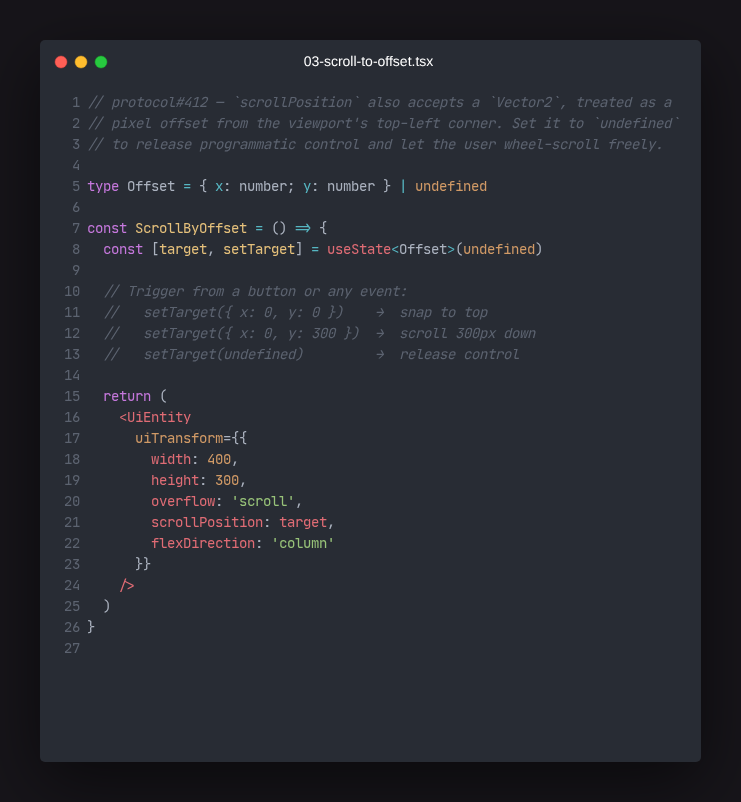
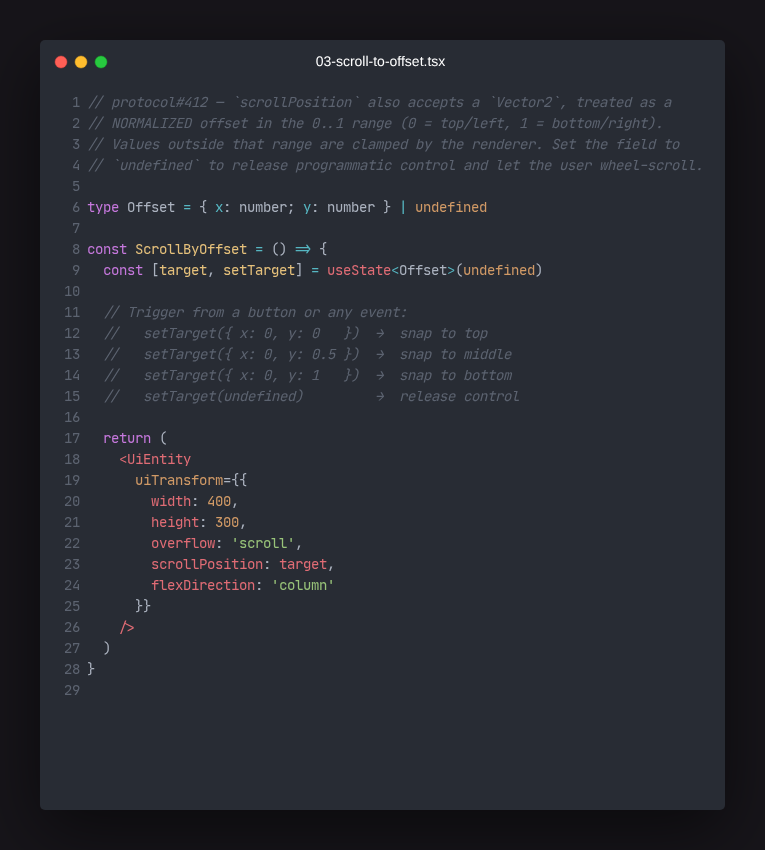
fix(scrollable-ui): scrollPosition is normalized 0..1, not pixels
Verified against the reference renderer (bevy-explorer
crates/ui_core/src/scrollable.rs): both ScrollTarget::Literal and
StartPosition::Explicit clamp via val.clamp(0.0, 1.0), and the
ScrollPosition component written back via UiScrollResult uses the same
0..1 float. Previous pixel-style values (y=300, y=600) were clamped to
1.0 by the renderer and snapped the viewport to the bottom.

- SCROLL TO OFFSET demo buttons: y = 0 / 0.25 / 0.5 / 1
- Live readback uses toFixed(3) since values are 0..1
- 03-scroll-to-offset.tsx + 05-read-scroll-position.ts comments updated
  to call out the normalized unit; carbon images regenerated

diff --git a/scenes/scrollable-ui/src/ui.tsx b/scenes/scrollable-ui/src/ui.tsx
@@ -25,8 +25,8 @@ const TABS: TabConfig[] = [
     id: 'offset',
     label: 'SCROLL TO OFFSET',
     image: 'assets/examples/03-scroll-to-offset.png',
-    imageW: 741,
-    imageH: 802
+    imageW: 765,
+    imageH: 850
   },
   {
     id: 'visible',
@@ -234,18 +234,25 @@ const ScrollToOffsetDemo = () => {
           onMouseDown={() => setTarget({ x: 0, y: 0 })}
         />
         <Button
-          value="y = 300"
+          value="y = 0.25"
           variant="secondary"
           fontSize={11}
           uiTransform={{ width: 84, height: 28, margin: '0 4 0 0' }}
-          onMouseDown={() => setTarget({ x: 0, y: 300 })}
+          onMouseDown={() => setTarget({ x: 0, y: 0.25 })}
         />
         <Button
-          value="y = 600"
+          value="y = 0.5"
           variant="secondary"
           fontSize={11}
           uiTransform={{ width: 84, height: 28, margin: '0 4 0 0' }}
-          onMouseDown={() => setTarget({ x: 0, y: 600 })}
+          onMouseDown={() => setTarget({ x: 0, y: 0.5 })}
+        />
+        <Button
+          value="y = 1"
+          variant="secondary"
+          fontSize={11}
+          uiTransform={{ width: 76, height: 28, margin: '0 4 0 0' }}
+          onMouseDown={() => setTarget({ x: 0, y: 1 })}
         />
         <Button
           value="Release"
@@ -257,7 +264,9 @@ const ScrollToOffsetDemo = () => {
       </UiEntity>
       <Label
         value={`scrollPosition = ${
-          target === undefined ? 'undefined' : `{ x: ${target.x}, y: ${target.y} }`
+          target === undefined
+            ? 'undefined'
+            : `{ x: ${target.x.toFixed(2)}, y: ${target.y.toFixed(2)} }   (normalized 0..1)`
         }`}
         fontSize={11}
         color={Color4.fromHexString('#7cffb2ff')}
@@ -300,7 +309,7 @@ const ScrollVisibleDemo = () => {
 const ReadScrollDemo = () => (
   <UiEntity uiTransform={{ width: '100%', height: '100%', flexDirection: 'column' }}>
     <Label
-      value={`UiScrollResult → { x: ${userScroll.x.toFixed(0)}, y: ${userScroll.y.toFixed(0)} }`}
+      value={`UiScrollResult → { x: ${userScroll.x.toFixed(3)}, y: ${userScroll.y.toFixed(3)} }   (normalized 0..1)`}
       fontSize={13}
       color={Color4.fromHexString('#7cffb2ff')}
       uiTransform={{ width: '100%', height: 24, margin: '0 0 4 0' }}

diff --git a/scenes/scrollable-ui/examples/03-scroll-to-offset.tsx b/scenes/scrollable-ui/examples/03-scroll-to-offset.tsx
@@ -1,6 +1,7 @@
 // protocol#412 — `scrollPosition` also accepts a `Vector2`, treated as a
-// pixel offset from the viewport's top-left corner. Set it to `undefined`
-// to release programmatic control and let the user wheel-scroll freely.
+// NORMALIZED offset in the 0..1 range (0 = top/left, 1 = bottom/right).
+// Values outside that range are clamped by the renderer. Set the field to
+// `undefined` to release programmatic control and let the user wheel-scroll.
 
 type Offset = { x: number; y: number } | undefined
 
@@ -8,8 +9,9 @@ const ScrollByOffset = () => {
   const [target, setTarget] = useState<Offset>(undefined)
 
   // Trigger from a button or any event:
-  //   setTarget({ x: 0, y: 0 })    →  snap to top
-  //   setTarget({ x: 0, y: 300 })  →  scroll 300px down
+  //   setTarget({ x: 0, y: 0   })  →  snap to top
+  //   setTarget({ x: 0, y: 0.5 })  →  snap to middle
+  //   setTarget({ x: 0, y: 1   })  →  snap to bottom
   //   setTarget(undefined)         →  release control
 
   return (

diff --git a/scenes/scrollable-ui/examples/05-read-scroll-position.ts b/scenes/scrollable-ui/examples/05-read-scroll-position.ts
@@ -1,8 +1,9 @@
 // protocol#412 — `UiScrollResult` is the renderer → scene feedback channel.
 // For every scrollable container, the renderer writes the current scroll
-// offset (in pixels) back into this component. Read it from any ECS
-// system to react to user-driven scroll changes — e.g., lazy-load rows,
-// fire analytics, or sync external state.
+// offset back into this component as a NORMALIZED `Vector2` in the 0..1
+// range (matching `scrollPosition`'s units). Read it from any ECS system
+// to react to user-driven scroll — e.g., lazy-load rows, fire analytics,
+// or sync external state.
 
 engine.addSystem(() => {
   for (const [entity, result] of engine.getEntitiesWith(UiScrollResult)) {
